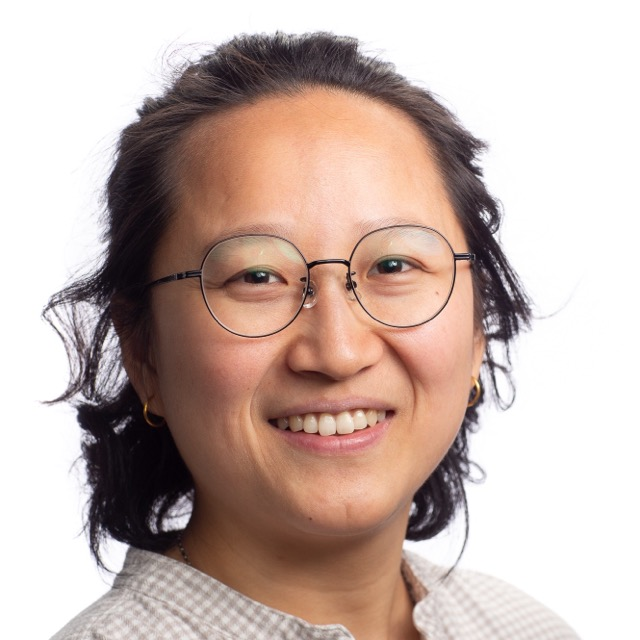
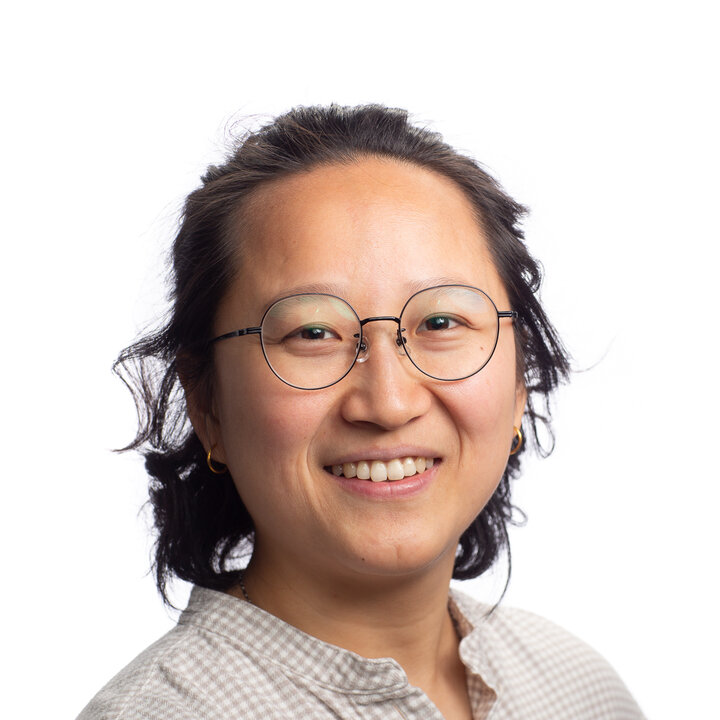
Portrait: smaller centered face, detector box around the face only

diff --git a/site.css b/site.css
@@ -80,26 +80,32 @@ img { max-width: 100%; display: block; }
 .links a:hover { border-color: var(--accent); text-decoration: none; }
 .links i { font-size: 1.05rem; color: var(--muted); }
 
-/* Portrait framed as a face-detector hit */
-.detect { position: relative; margin: 18px; }
+/* Portrait with a face-detector box around the face */
+.detect { position: relative; }
 .detect img {
   aspect-ratio: 1; object-fit: cover; width: 100%;
-  border-radius: 6px;
+  border-radius: 16px;
+  border: 1px solid var(--line);
+  background: #fff;
 }
-.detect::before, .detect::after,
-.detect .c1, .detect .c2 {
-  content: ""; position: absolute; width: 34px; height: 34px;
+.detect .box {
+  position: absolute;
+  left: 26%; right: 26%; top: 20%; bottom: 23%;
+}
+.box::before, .box::after, .box .c1, .box .c2 {
+  content: ""; position: absolute; width: 22px; height: 22px;
   border: 3px solid var(--accent);
 }
-.detect::before { top: -12px; left: -12px; border-right: 0; border-bottom: 0; }
-.detect::after  { top: -12px; right: -12px; border-left: 0; border-bottom: 0; }
-.detect .c1 { bottom: -12px; left: -12px; border-right: 0; border-top: 0; }
-.detect .c2 { bottom: -12px; right: -12px; border-left: 0; border-top: 0; }
-.detect .tag {
-  position: absolute; left: -12px; top: -40px;
+.box::before { top: 0; left: 0; border-right: 0; border-bottom: 0; }
+.box::after  { top: 0; right: 0; border-left: 0; border-bottom: 0; }
+.box .c1 { bottom: 0; left: 0; border-right: 0; border-top: 0; }
+.box .c2 { bottom: 0; right: 0; border-left: 0; border-top: 0; }
+.box .tag {
+  position: absolute; left: 0; bottom: 100%; margin-bottom: 4px;
   background: var(--accent); color: #fff;
-  font: 600 .8rem/1 var(--body);
-  padding: 6px 9px; border-radius: 3px;
+  font: 600 .75rem/1 var(--body);
+  padding: 5px 8px; border-radius: 3px;
+  white-space: nowrap;
 }
 
 /* ---------- Sections ---------- */

diff --git a/index.html b/index.html
@@ -50,9 +50,11 @@
             </div>
             <div class="portrait">
                 <div class="detect">
-                    <span class="tag">real · 0.99</span>
                     <img src="images/me-portrait.jpg" alt="Portrait of Ying Xu" width="300" height="300">
-                    <span class="c1"></span><span class="c2"></span>
+                    <div class="box" aria-hidden="true">
+                        <span class="tag">real · 0.99</span>
+                        <span class="c1"></span><span class="c2"></span>
+                    </div>
                 </div>
             </div>
         </header>
